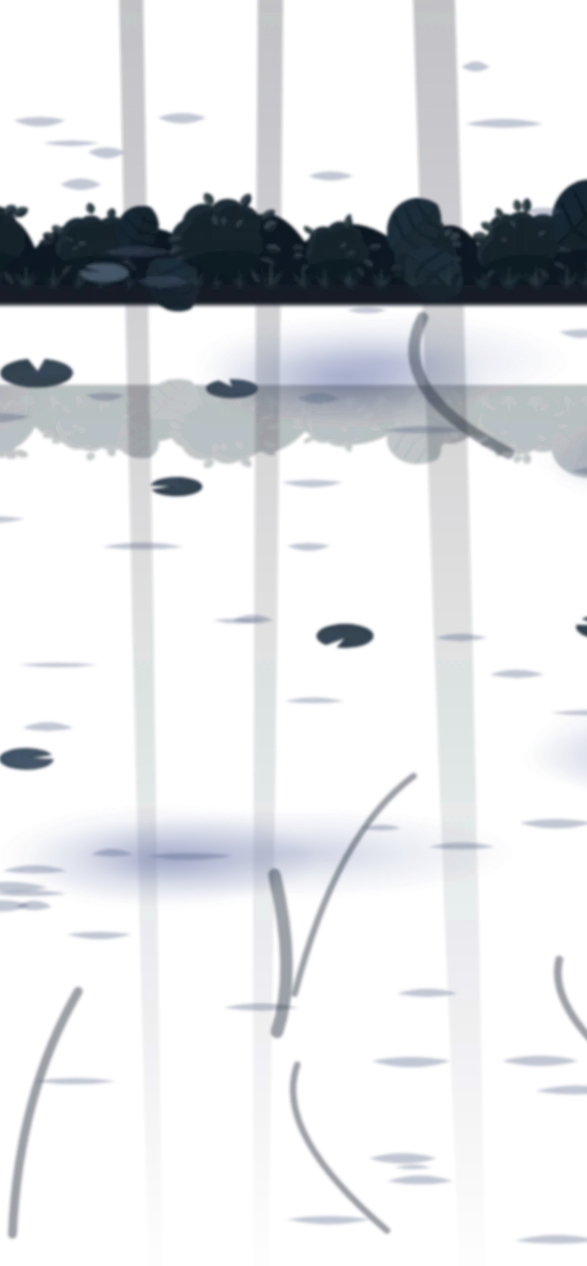
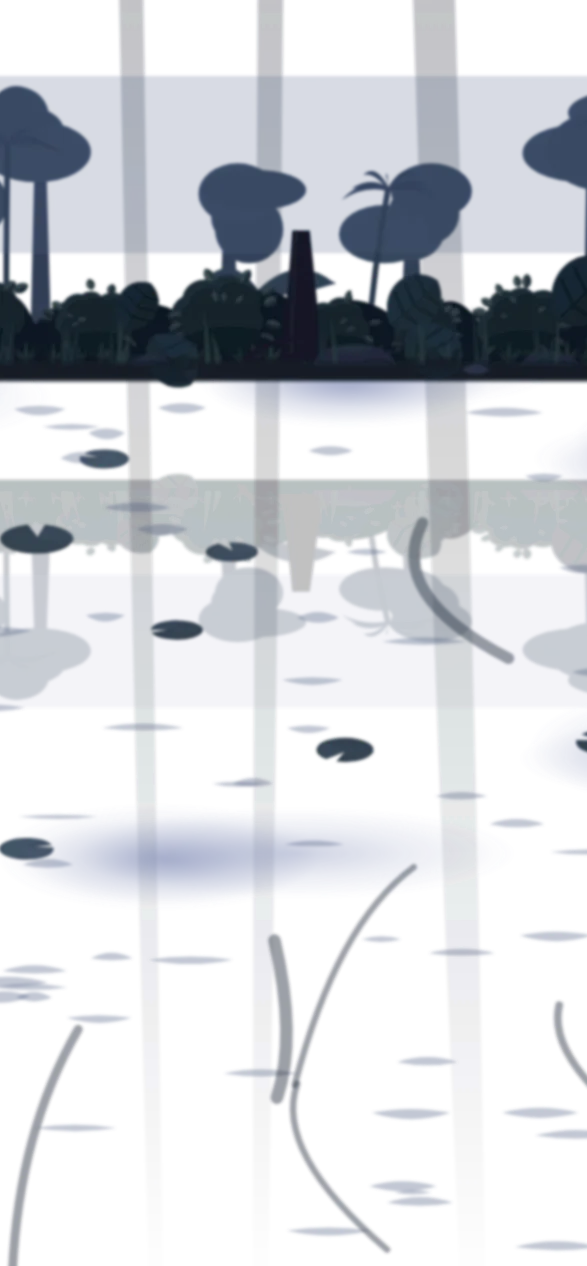
Build out the far bank across the waterside pond
Claude-Session: https://claude.ai/code/session_01EHtmNVvLo6L45VFzzqfGpi

diff --git a/assets/js/nature.js b/assets/js/nature.js
@@ -1178,11 +1178,11 @@ export function sceneJungle(W, stops, { birdGap = -1 } = {}) {
   // 水面に映る空の雲（見下ろした池に、白い雲がやわらかく映り込む）
   far += cloudReflections(-10, fw + 10, 8, 95, Math.round(fw / 14));
   // 対岸の茂み（上のほう）と、その映り込み
-  far += farBank(-10, fw + 10, 22, ['#1f3a22', '#2b5230', '#3d6b3a', '#5a8a3c']);
+  far += farBank(-10, fw + 10, 28, ['#1f3a22', '#2b5230', '#3d6b3a', '#5a8a3c']);
   // （鯉は背景に焼かず、museum.js のスクロールで泳ぐ鯉だけにする：止まった鯉が混ざらないように）
-  far += caustics(-5, fw, 5, 100, Math.round(fw * 1.2), 'rgba(210,222,170,.35)');
-  for (let i = 0; i < fw / 12; i++) far += `<path d="M${n1(R(0, fw))} ${n1(R(10, 90))}q${n1(R(-8, 8))} ${n1(R(4, 10))} ${n1(R(-10, 10))} ${n1(R(10, 20))}" stroke="#5f6a40" stroke-width="${n1(R(.4, 1))}" fill="none" opacity=".45" stroke-linecap="round"/>`;
-  for (let i = 0; i < fw / 7; i++) { const x = R(0, fw), y = R(15, 95); far += lily(x, y, R(1.5, 3), pick(['#9fb86a', '#8aa35a', '#b3c97a'])); }
+  far += caustics(-5, fw, 29, 100, Math.round(fw * 1.2), 'rgba(210,222,170,.35)');
+  for (let i = 0; i < fw / 12; i++) far += `<path d="M${n1(R(0, fw))} ${n1(R(30, 90))}q${n1(R(-8, 8))} ${n1(R(4, 10))} ${n1(R(-10, 10))} ${n1(R(10, 20))}" stroke="#5f6a40" stroke-width="${n1(R(.4, 1))}" fill="none" opacity=".45" stroke-linecap="round"/>`;
+  for (let i = 0; i < fw / 7; i++) { const x = R(0, fw), y = R(31, 95); far += lily(x, y, R(1.5, 3), pick(['#9fb86a', '#8aa35a', '#b3c97a'])); }
   // 中景：太い枝と苔、つる、睡蓮と花、波紋、葦
   const [bG, bD] = lgrad([[0, '#8a6442'], [1, '#5a3b2a']]);
   mid += `<defs>${bD}</defs><path d="M-5 6Q${n1(mw * .25)} -1 ${n1(mw * .5)} 8T${n1(mw + 5)} 6L${n1(mw + 5)} 11Q${n1(mw * .75)} 14 ${n1(mw * .5)} 12T-5 10Z" fill="url(#${bG})"/>`;
@@ -1254,14 +1254,55 @@ export function sceneJungle(W, stops, { birdGap = -1 } = {}) {
 
 // ---------- 水辺の描き込み：対岸の茂み、水中の鯉、カエル、トンボ、カワセミ、サギ、カメ、アメンボ ----------
 // 対岸：暗い茂みの帯に丸い茂みとモンステラ。下に水面への映り込み（上下を反転して薄く）
+// 対岸の奥：霞んだ背の高い木々（幹と樹冠）、ヤシとバナナの大きな葉の影、上にうすい霧
+function farBankBackdrop(x0, x1, y, tones) {
+  const d = hrng(x0 * .9 + x1 * 1.7 + y), haze = (c, t) => mixC(c, '#c3d2a2', t);
+  let s = '';
+  for (let x = x0 + d() * 6; x < x1; x += 7 + d() * 9) { // 奥の木：細い幹と、重なる丸い樹冠
+    const h = 12 + d() * 9, top = y - h, c = haze(tones[1], .62), w = .5 + d() * .5;
+    s += `<path d="M${n1(x - w)} ${n1(y)}L${n1(x - w * .5)} ${n1(top + 3)}L${n1(x + w * .5)} ${n1(top + 3)}L${n1(x + w)} ${n1(y)}Z" fill="${haze(tones[0], .6)}"/>`;
+    for (let k = 0; k < 4; k++) s += `<ellipse cx="${n1(x + (d() - .5) * 5)}" cy="${n1(top + 1 + d() * 4)}" rx="${n1(2.2 + d() * 2.6)}" ry="${n1(1.6 + d() * 1.6)}" fill="${k % 2 ? c : haze(tones[2], .6)}"/>`;
+  }
+  for (let x = x0 + 3 + d() * 10; x < x1; x += 14 + d() * 16) { // ヤシ：細い幹が少し傾き、上に大きな羽の葉
+    const h = 13 + d() * 7, lean = (d() - .5) * 4, tx = x + lean, ty = y - h, c = haze(tones[1], .5);
+    s += `<path d="M${n1(x)} ${n1(y)}Q${n1(x + lean * .3)} ${n1(y - h * .5)} ${n1(tx)} ${n1(ty)}" stroke="${haze(tones[0], .5)}" stroke-width=".45" fill="none"/>`;
+    for (let k = 0; k < 7; k++) { const a = -170 + k * 27 + (d() - .5) * 10, L = 3 + d() * 2.2, ex = tx + Math.cos(a * Math.PI / 180) * L, ey = ty + Math.sin(a * Math.PI / 180) * L * .6 + L * .35; s += `<path d="M${n1(tx)} ${n1(ty)}Q${n1((tx + ex) / 2)} ${n1(Math.min(ty, ey) - .9)} ${n1(ex)} ${n1(ey)}Q${n1((tx + ex) / 2)} ${n1(Math.min(ty, ey) - .2)} ${n1(tx)} ${n1(ty + .25)}Z" fill="${c}"/>`; }
+  }
+  for (let x = x0 + 8 + d() * 12; x < x1; x += 18 + d() * 22) { // バナナの葉：大きく垂れる幅広の葉
+    const bx = x, by = y - 4 - d() * 3, c = haze(tones[2], .45);
+    for (const dir of [-1, 1]) { const L = 4 + d() * 2.5, ex = bx + dir * L, ey = by - 1 + d() * 3; s += `<path d="M${n1(bx)} ${n1(by)}Q${n1(bx + dir * L * .5)} ${n1(by - 3)} ${n1(ex)} ${n1(ey)}Q${n1(bx + dir * L * .45)} ${n1(by + .6)} ${n1(bx)} ${n1(by + .5)}Z" fill="${c}"/><path d="M${n1(bx)} ${n1(by + .1)}Q${n1(bx + dir * L * .5)} ${n1(by - 1.6)} ${n1(ex)} ${n1(ey)}" stroke="${haze(tones[1], .55)}" stroke-width=".12" fill="none"/>`; }
+  }
+  s += `<rect x="${n1(x0)}" y="${n1(y - 22)}" width="${n1(x1 - x0)}" height="14" fill="#d4dfb4" opacity=".22"/>`; // うすい霧
+  return s;
+}
+// 対岸の手前：岸から立つ太い幹と水に下りる根、水ぎわの苔むした岩、細長い水草の葉、濡れた土の帯
+function farBankFront(x0, x1, y, tones) {
+  const d = hrng(x0 * 1.3 + x1 * .4 + y * 2);
+  let s = `<path d="M${n1(x0)} ${n1(y + .2)}H${n1(x1)}V${n1(y + 1.1)}H${n1(x0)}Z" fill="#2a3420" opacity=".55"/>`;
+  for (let x = x0 + 5 + d() * 14; x < x1; x += 24 + d() * 30) { // 太い幹と根
+    const w = 1 + d() * .7, h = 9 + d() * 6, c = '#3a3a28';
+    s += `<path d="M${n1(x - w)} ${n1(y + .5)}Q${n1(x - w * .6)} ${n1(y - h * .5)} ${n1(x - w * .4)} ${n1(y - h)}L${n1(x + w * .4)} ${n1(y - h)}Q${n1(x + w * .7)} ${n1(y - h * .5)} ${n1(x + w)} ${n1(y + .5)}Z" fill="${c}"/><path d="M${n1(x - w * .5)} ${n1(y)}Q${n1(x - w * .35)} ${n1(y - h * .5)} ${n1(x - w * .25)} ${n1(y - h)}" stroke="#5a5a3c" stroke-width=".18" fill="none" opacity=".7"/>`;
+    for (const dir of [-1, 1, -1]) { const rx = x + dir * (w + d() * 2.5); s += `<path d="M${n1(x + dir * w * .5)} ${n1(y - 1.2)}Q${n1(rx)} ${n1(y - .8)} ${n1(rx + dir * .8)} ${n1(y + 1.4)}" stroke="${c}" stroke-width="${n1(.28 + d() * .2)}" fill="none" stroke-linecap="round"/>`; }
+  }
+  for (let x = x0 + d() * 8; x < x1; x += 9 + d() * 14) { // 水ぎわの岩（半分水に沈み、上に苔）
+    const w = 1.6 + d() * 2.2, h = w * (.45 + d() * .2), cy = y + .9;
+    s += `<path d="M${n1(x - w)} ${n1(cy)}Q${n1(x - w * .8)} ${n1(cy - h)} ${n1(x)} ${n1(cy - h)}Q${n1(x + w * .8)} ${n1(cy - h)} ${n1(x + w)} ${n1(cy)}Z" fill="#5a5f4a"/><path d="M${n1(x - w * .7)} ${n1(cy - h * .7)}Q${n1(x)} ${n1(cy - h * 1.15)} ${n1(x + w * .5)} ${n1(cy - h * .8)}Q${n1(x)} ${n1(cy - h * .55)} ${n1(x - w * .7)} ${n1(cy - h * .7)}Z" fill="${tones[3]}" opacity=".75"/><path d="M${n1(x + w * .2)} ${n1(cy - h * .2)}Q${n1(x + w * .7)} ${n1(cy - h * .4)} ${n1(x + w * .9)} ${n1(cy)}" stroke="#3a3e30" stroke-width=".25" fill="none" opacity=".6"/>`;
+  }
+  for (let x = x0 + d() * 4; x < x1; x += 3 + d() * 6) { // 細長い水草の葉（線ではなく、先の細い葉の形）
+    const n = 2 + Math.floor(d() * 3);
+    for (let k = 0; k < n; k++) { const bx = x + (d() - .5) * 1.4, h = 2.2 + d() * 2.8, lean = (d() - .5) * 1.8, wd = .16 + d() * .1; s += `<path d="M${n1(bx - wd)} ${n1(y + .8)}Q${n1(bx + lean * .4)} ${n1(y + .8 - h * .6)} ${n1(bx + lean)} ${n1(y + .8 - h)}Q${n1(bx + lean * .4 + wd)} ${n1(y + .8 - h * .55)} ${n1(bx + wd)} ${n1(y + .8)}Z" fill="${d() < .5 ? tones[2] : tones[3]}"/>`; }
+  }
+  return s;
+}
 function farBank(x0, x1, y, tones) {
   const id = `bk${gid++}`;
   let x = x0, d = `M${n1(x0)} ${n1(y + 2)}L${n1(x0)} ${n1(y - 3)}`;
   while (x < x1) { const w = R(4, 9), h = R(3, 7); d += `Q${n1(x + w / 2)} ${n1(y - h - w * .3)} ${n1(x + w)} ${n1(y - h * R(.2, .6))}`; x += w; }
-  let b = `<path d="${d}L${n1(x)} ${n1(y + 2)}Z" fill="${tones[0]}"/>`;
+  let b = farBankBackdrop(x0, x1, y, tones) + `<path d="${d}L${n1(x)} ${n1(y + 2)}Z" fill="${tones[0]}"/>`;
   for (let bx = x0 + R(2, 6); bx < x1; bx += R(6, 12)) { const r = R(2.5, 4.5); b += bushMass(bx, y - r * .7, r, tones, 14); }
   for (let bx = x0 + R(4, 10); bx < x1; bx += R(12, 22)) b += monstera(bx, y - R(1, 3), R(4, 6.5), R(-60, -20), pick([tones[1], tones[2]]), { cls: '' }) + monstera(bx + R(1, 3), y - R(.5, 2), R(3.5, 5.5), R(20, 60), pick([tones[2], tones[3]]), { cls: '' });
   for (let bx = x0; bx < x1; bx += R(1.5, 3)) b += tuft(bx, y + .8, R(1.5, 3), [tones[1], tones[2], tones[3]], 5);
+  b += farBankFront(x0, x1, y, tones);
   // 水ぎわの土と、映り込み
   return `<g id="${id}">${b}</g><path d="M${n1(x0)} ${n1(y + .5)}H${n1(x1)}V${n1(y + 2.2)}H${n1(x0)}Z" fill="#3f4a2c" opacity=".6"/><g transform="translate(0 ${n1((y + 2.2) * 2)}) scale(1 -.75)" opacity=".28"><use href="#${id}"/></g>`;
 }
